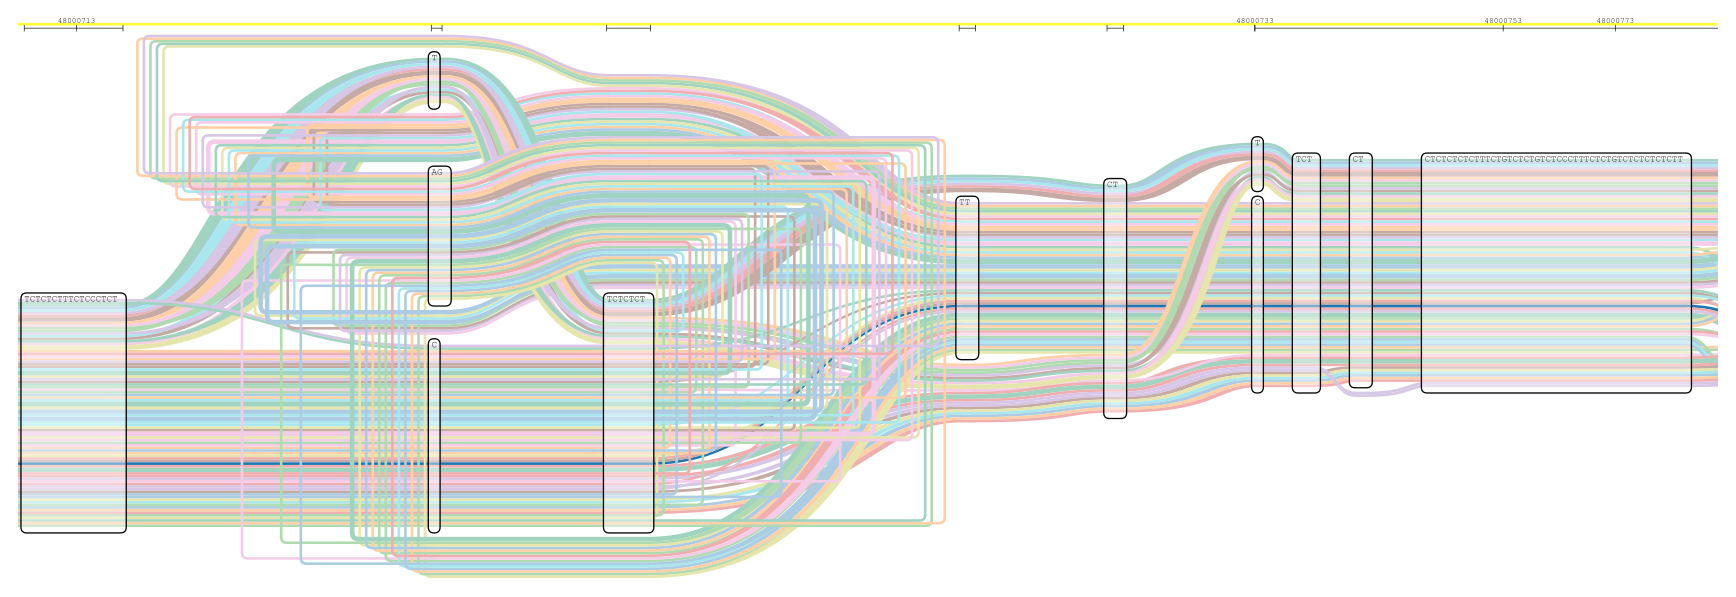
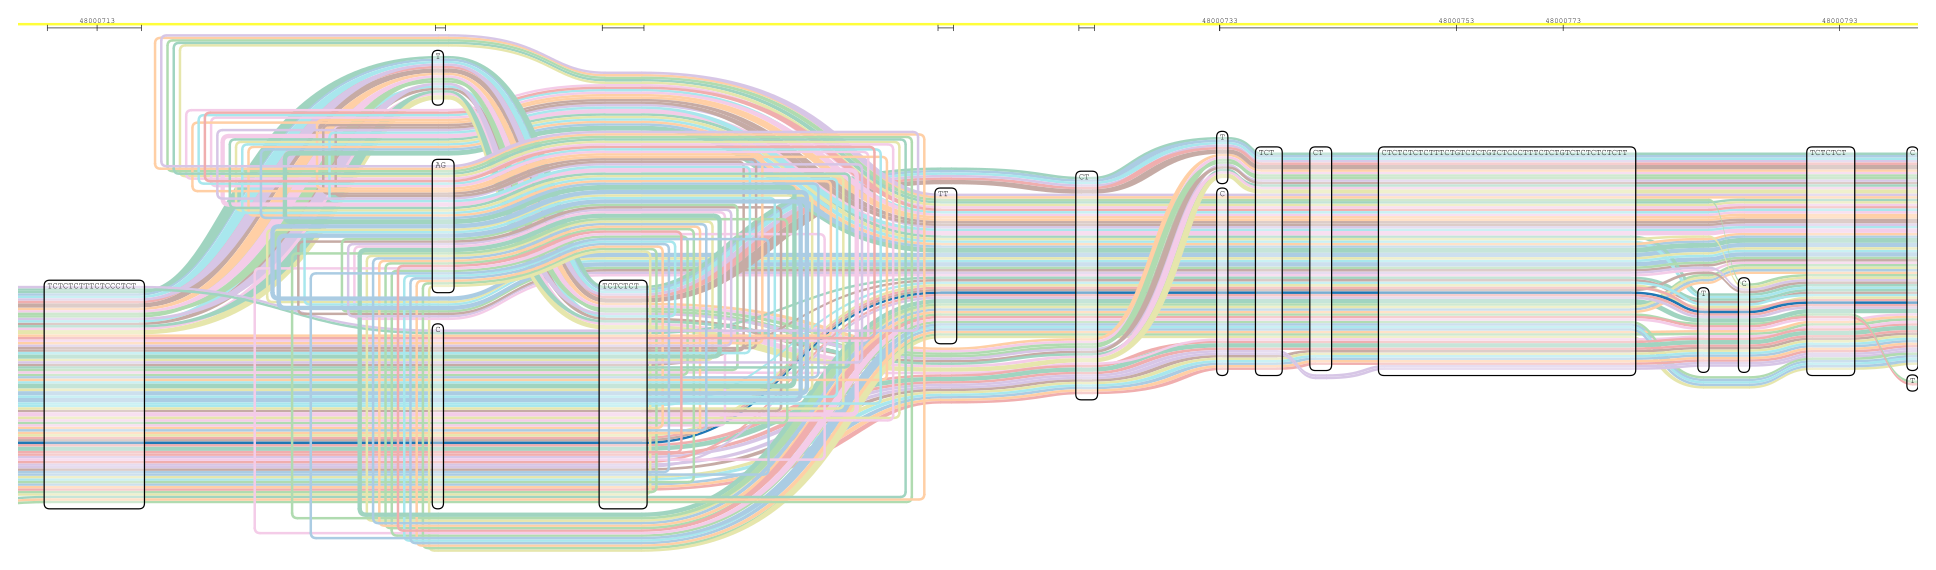
Add the coarsened read view to the README, and reframe two figures
The CLI grew --compressed and --coarsened (73f306e), which makes two better
figures possible. --compressed gives node widths logarithmic in sequence
length, so the BRCA1 read pileup renders legibly instead of as a 214px strip.
--coarsened adds the Sankey view, which has no upstream equivalent: per-read
ribbons collapse to one band per edge scaled by traversing-read count, so
allele balance at each bubble is readable directly.

Also widens the microsatellite slice so it no longer bisects the 47 bp
CTCTCT... node at its right edge.

Claude-Session: https://claude.ai/code/session_0148LQH4Zw4gYfNbDwa1WhKB

diff --git a/README.md b/README.md
@@ -27,10 +27,17 @@ before they fan out:
 
 ![HPRC chr20 haplotypes in register](doc/images/hprc-chr20-haplotypes.png)
 
-**Reads over a graph.** 262 GAM alignments across the snp1kg BRCA1 graph, blue
-and red for forward and reverse strand:
+**Reads over a graph.** GAM alignments across the snp1kg BRCA1 graph, blue and
+red for forward and reverse strand:
 
 ![BRCA1 reads](doc/images/brca1-reads.png)
+
+**The same reads, coarsened.** The Sankey view collapses per-read ribbons into
+one band per node-to-node edge, scaled by how many reads traverse it, so
+rendering is O(edges) rather than O(reads). Allele balance at each bubble
+becomes readable at a glance:
+
+![BRCA1 reads, coarsened](doc/images/brca1-reads-coarsened.png)
 
 Every figure here was produced headlessly with `pnpm tubemap-cli` — see
 [headless SVG rendering](doc/headless-rendering.md).
